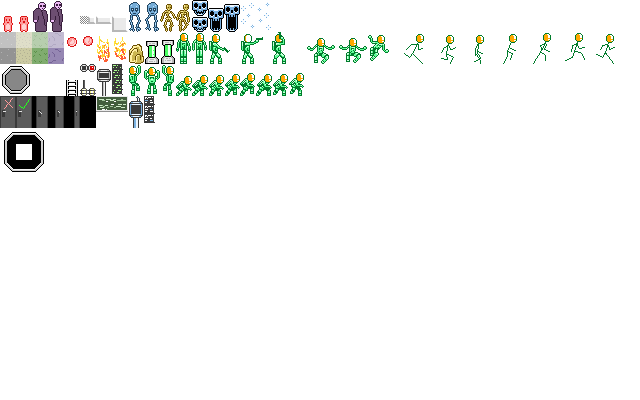
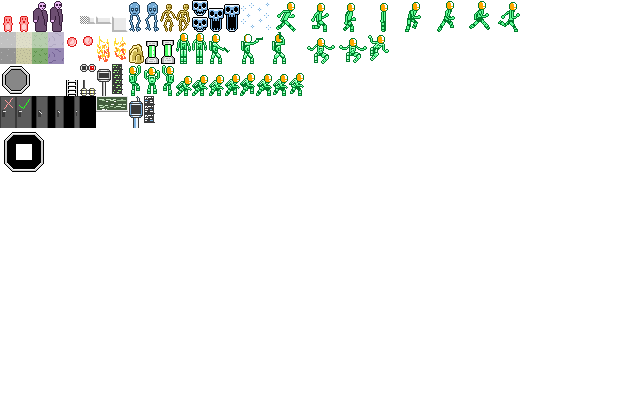
added some crummy running animations, will probably have to redo

diff --git a/images.py b/images.py
@@ -125,7 +125,7 @@ PLAYER_IDLE         = create("player_idle", [R(176, 32, 16, 32), R(192, 32, 16, 
 PLAYER_GUN          = create("player_gun", [R(208 + i * 32, 32, 24, 32) for i in range(0, 3)], tpf=10)
 PLAYER_AIR          = create("player_air", [R(304, 32, 32, 32), R(336, 32, 32, 32)])
 PLAYER_WALLSLIDE    = create("player_wallslide", [R(368, 32, 24, 32)])
-PLAYER_RUN          = create("player_run", [R(400 + 32 * i, 32, 32, 32) for i in range(0, 6)], tpf=6)
+PLAYER_RUN          = create("player_run", [R(272 + 32 * i, 0, 32, 32) for i in range(0, 7)], tpf=6)
 PLAYER_LADDER       = create("player_ladder", [R(128, 64, 16, 32), R(144, 64, 16, 32), R(160, 64, 16, 32), R(144, 64, 16, 32)])
 PLAYER_CROUCH       = create("player_crouch", [R(176 + i * 16, 64, 16, 32) for i in range(0, 2)])
 PLAYER_CROUCH_WALK  = create("player_crouch_walk", [R(208 + i * 16, 64, 16, 32) for i in range(0, 6)], tpf=6)

diff --git a/entities.py b/entities.py
@@ -15,7 +15,6 @@ class Entity:
         self.y = y  # floating point
         self.vel = [0, 0]
         self.rect = pygame.Rect(x, y, w, h)
-        self.weight = 1
         self.categories = set()
         self.ref_id = None  # used by the level loader to mark entity as 'special'
 
